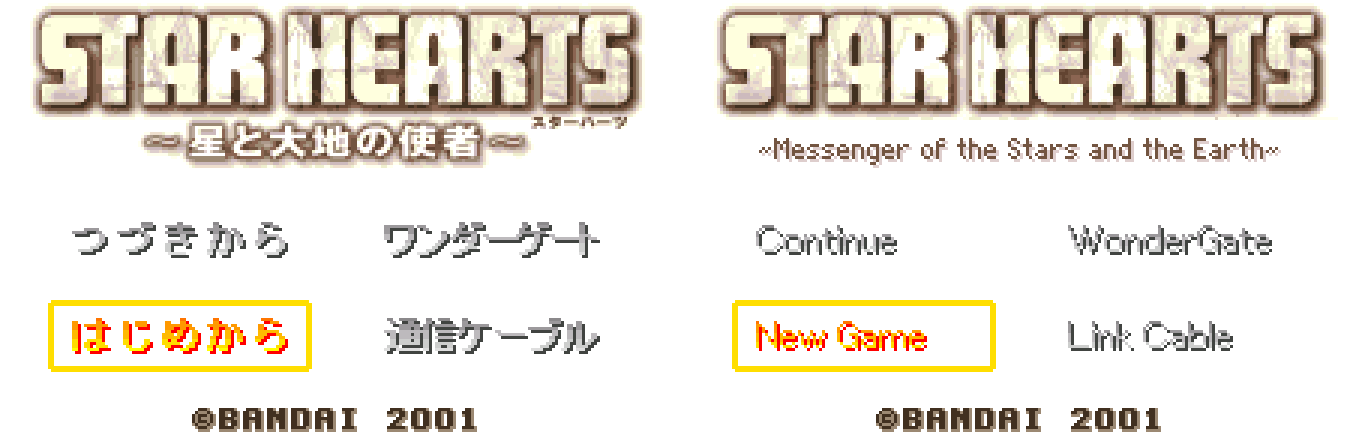
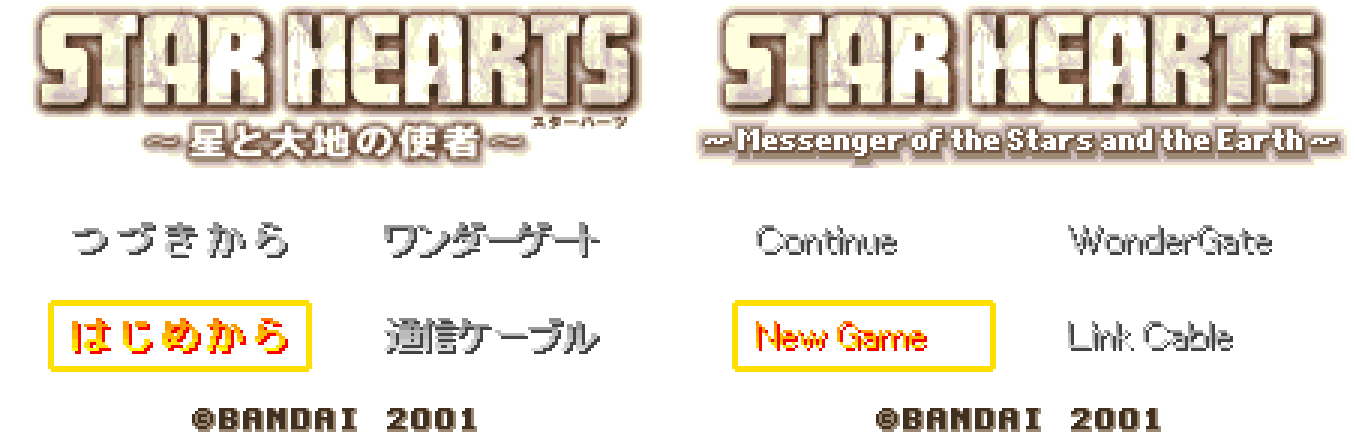
Star Hearts: Hoshi to Daichi no Shisha 1.1 (title subtitle in the original's style)

Changed region(s): [[0.4956, 0.2708, 1.0, 0.3912]]

diff --git a/games/star-hearts/README.md b/games/star-hearts/README.md
@@ -1,4 +1,4 @@
-# Star Hearts: Hoshi to Daichi no Shisha (WonderSwan Color) - AI English translation patch v1.0
+# Star Hearts: Hoshi to Daichi no Shisha (WonderSwan Color) - AI English translation patch v1.1
 
 **Star Hearts: Hoshi to Daichi no Shisha** (スターハーツ ～星と大地の使者～, "Star Hearts: Messenger of the Stars and the Earth") is Bandai's 2001 action RPG for the WonderSwan Color, released only in Japan. You play the child of Inde Village's chief, sent out on the day you come of age to free the land's spirits and fairies from the Evil Emperor Zorg. It is a top-down adventure with magic, animal abilities, weapon "Arts", charms you fit to your gear, a pet that hatches from a meteorite egg and fights other players' pets over the link cable, and an online bazaar on Bandai's WonderGate service.
 
@@ -42,6 +42,7 @@ Like the original, the name screen reacts to some names. Japanese names typed on
 
 **Changelog**
 
+* **v1.1**: the title screen's subtitle is redrawn in the style of the Japanese one (cream letters, dark outline, soft shadow).
 * **v1.0**: first release.
 
 **Sources consulted**
@@ -106,11 +107,11 @@ Like the original, the name screen reacts to some names. Japanese names typed on
 
 **How to patch**
 
-Apply `star-hearts-en-1.0.bps` to the Japanese ROM "Star Hearts - Hoshi to Daichi no Shisha (Japan)" (CRC32 138D1018) in your browser with the [Swan Revival patcher](https://swanrevival.com/patcher/), or with Floating IPS, beat or ROM Patcher JS. The result is an 8 MB ROM with CRC32 8892AE15 (SHA-1 02428d6a2af4bf84b84321b336db98c8b718b347).
+Apply `star-hearts-en-1.1.bps` to the Japanese ROM "Star Hearts - Hoshi to Daichi no Shisha (Japan)" (CRC32 138D1018) in your browser with the [Swan Revival patcher](https://swanrevival.com/patcher/), or with Floating IPS, beat or ROM Patcher JS. The result is an 8 MB ROM with CRC32 C2F3CCBD (SHA-1 0a765180c8f35f5e1123939e25d284aec1a7bc8f).
 
 It's a WonderSwan Color game, so keep the .wsc extension. You must provide your own copy of the original Japanese game to apply it.
 
-**Download:** `star-hearts-en-1.0.bps` on the [release page](https://github.com/PokemonGoDB/wonderswan-english-patches/releases/tag/star-hearts-v1.0).
+**Download:** `star-hearts-en-1.1.bps` on the [release page](https://github.com/PokemonGoDB/wonderswan-english-patches/releases/tag/star-hearts-v1.1).
 
 **Known issues**
 
@@ -124,6 +125,7 @@ It's a WonderSwan Color game, so keep the .wsc extension. You must provide your 
 * The game's dialogue renderer draws English letters with variable widths. The speaker name tags and map labels had a separate tile-based renderer limited to 8 characters; it was replaced with a variable-width one and a narrow font, so tags and labels show full names.
 * The name screen's hidden names are checked by the original code against Japanese kana; a hook adds a second table for the English names, including the V-Jump code.
 * English letters use codes the Japanese font doesn't have. For Link Cable play, the pet's name is converted to full-width letters (which both versions can draw) when the link mode starts, and back when it ends; the link mode never saves the pet record, so the save only ever holds the English codes.
+* The title's subtitle is a picture. Drawn in the original's outlined style, the English needs more tiles than the logo's graphics hold, so a small hook on the title's loading code copies the rest into video memory the title screen leaves unused.
 * The original's cartridge header declares 8 KB of save memory, but the game writes 32 KB. The header now declares 32 KB, so emulators and flash carts keep the whole save.
 * The game copies an item's name into the "obtained!" message through a buffer with no length check, and a longer name would overwrite the message. Every English item name fits in 9 character codes (two letters can share one code) and 84 pixels, and the build refuses a longer one.
 

diff --git a/README.md b/README.md
@@ -41,7 +41,7 @@ English translation patches for Japanese-only WonderSwan and WonderSwan Color ga
 | [Sennou Millennium](games/sennou-millennium/README.md) (puzzle battles and 400 puzzles; + special edition with the developers' sound test and opponent select) | WonderSwan | [1.0](https://github.com/PokemonGoDB/wonderswan-english-patches/releases/tag/sennou-millennium-v1.0) | BPS | `301436AC` | `4883A851` (special `C6995751`) |
 | [Tare Panda no GunPey](games/tare-panda-gunpey/README.md) (Tarepanda's GunPey; + debug edition with the developers' menu; + WonderGate edition) | WonderSwan | [1.0](https://github.com/PokemonGoDB/wonderswan-english-patches/releases/tag/tare-panda-gunpey-v1.0) | BPS | `A5643AA3` | `37A58671` (debug `B9B75EE5`, WonderGate `E3DE2601`) |
 | [Ring Infinity](games/ring-infinity/README.md) (horror sound novel; + special edition with the WonderGate mails and extra scenario open; WonderGate works with Swan Revival) | WonderSwan | [1.1](https://github.com/PokemonGoDB/wonderswan-english-patches/releases/tag/ring-infinity-v1.1) | BPS | `14ADBD4B` | `3E655169` (special `BC3C951B`) |
-| [Star Hearts: Hoshi to Daichi no Shisha](games/star-hearts/README.md) (action RPG; 8 MB patched ROM; link-cable pet battles work with Japanese cartridges; WonderGate works with Swan Revival) | WonderSwan Color | [1.0](https://github.com/PokemonGoDB/wonderswan-english-patches/releases/tag/star-hearts-v1.0) | BPS | `138D1018` | `8892AE15` |
+| [Star Hearts: Hoshi to Daichi no Shisha](games/star-hearts/README.md) (action RPG; 8 MB patched ROM; link-cable pet battles work with Japanese cartridges; WonderGate works with Swan Revival) | WonderSwan Color | [1.1](https://github.com/PokemonGoDB/wonderswan-english-patches/releases/tag/star-hearts-v1.1) | BPS | `138D1018` | `C2F3CCBD` |
 | [SD Gundam G Generation: Gather Beat](games/gather-beat/README.md) (Gundam strategy; WonderGate works with Swan Revival) | WonderSwan | [1.0](https://github.com/PokemonGoDB/wonderswan-english-patches/releases/tag/gather-beat-v1.0) | BPS | `E4EB3AB1` | `C9C1EC3A` |
 | [SD Gundam G Generation: Gather Beat 2](games/gather-beat/README.md) (Gundam strategy; + Stage Select edition; WonderGate works with Swan Revival) | WonderSwan Color | [1.0](https://github.com/PokemonGoDB/wonderswan-english-patches/releases/tag/gather-beat-v1.0) | BPS | `4D21A347` | `58494E5B` (Stage Select `D6CF7E7E`) |
 
